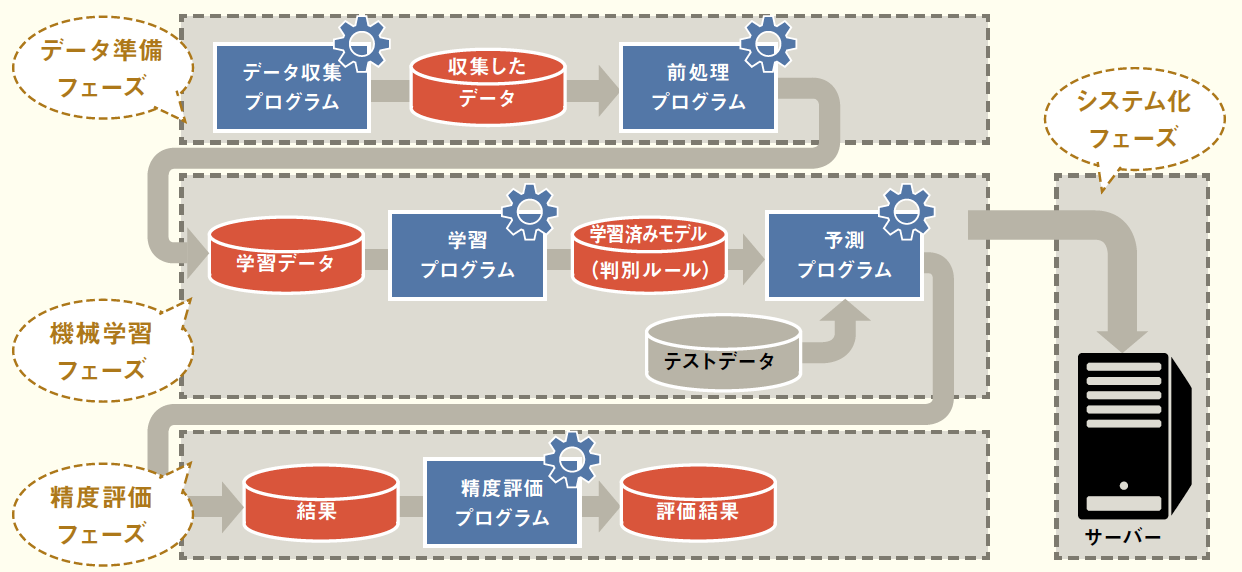
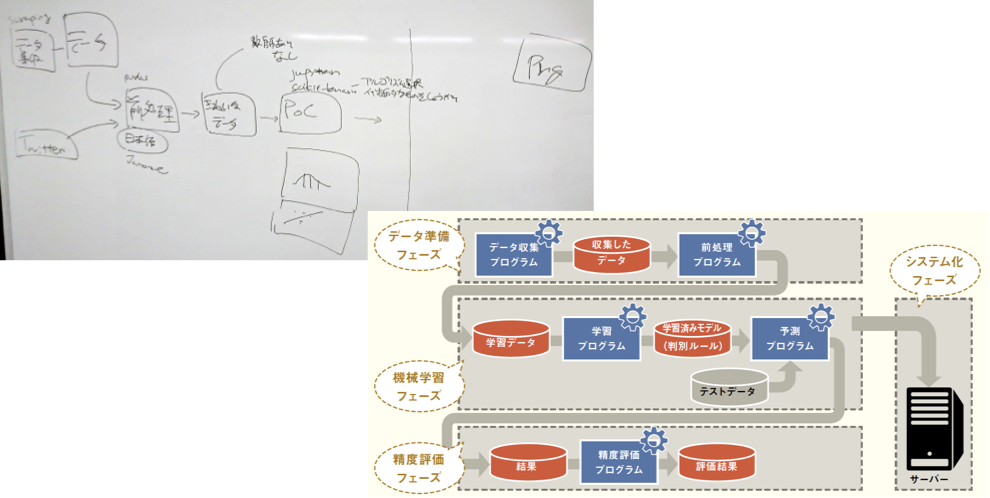
update stapy slide

diff --git a/20190808stapy/PITCHME.md b/20190808stapy/PITCHME.md
@@ -124,7 +124,7 @@
 
 +++?image=20190808stapy/images/ideathon.png&size=contain 90%
 
-+++?image=20190808stapy/images/editor-comment.png&position=right&size=50% auto
++++
 
 ### 企画案を編集に伝える
 
@@ -136,6 +136,23 @@
 * 前処理と予測
 * 回帰分析
 * 次のステップ
+
++++
+
+### 企画案を編集に伝える
+
+* 2018年7月6日
+* 環境構築、pybot準備
+* スクレイピングでデータ収集
+* マルコフ連鎖で文章生成
+* 手書き文字認識
+* 前処理と予測
+* 回帰分析
+* 次のステップ
+
+@snap[east span=40]
+![大津さん](20190808stapy/images/editor-comment.png)
+@snapend
 
 +++
 
@@ -157,18 +174,9 @@
 
 +++
 
-@snap[north]
-### 現在の構成になった
-@snapend
+### そして現在の構成に
 
-@snap[west span-50]
-![ホワイトボード](20190808stapy/images/whiteboard4.jpg)
-@snapend
-
-@snap[east span-50]
-#### 機械学習プロジェクトの全体像
-![機械学習プロジェクトの全体の流れ](20190808stapy/images/overview.png)
-@snapend
+![機械学習プロジェクトの全体像](20190808stapy/images/overview.png)
 
 +++
 
@@ -176,25 +184,25 @@
 
 * 2018年7月31日: 降籏がjoin
 * 2018年8月: 執筆開始
+  * 8カ月に渡る戦い
 * 2019年4月5日: 脱稿
-  * 1回目の社内レビューも済んだ状態
   * 当初は1月中旬で3月発売予定...
 
 +++
 
 ### そして出版へ📕
 
-* 2019年4月22日-5月10日: 著者初校、校閲
-* 2019年5月20日-5月22日: 著者再校
-* 2019年5月23日-5月24日: 念校・仕上げ
+* 2019年4月22日: 著者初校、校閲
+* 2019年5月11日: 再校作成(編集)
+* 2019年5月20日: 著者
+* 2019年5月23日: 念校・仕上げ
 * 2019年5月27日: 印刷所入稿
 * 2019年05月30日: 校了
 * 2019年06月21日: 発売！！
-
 
 ---
 
 ## Thank You!
 
 * Twitter: [@takanory](https://twitter.com/takanory)
-* Slide: [github.com/takanory/slides](https://github.com/takanory/slides)
+* Slides: [github.com/takanory/slides](https://github.com/takanory/slides)
